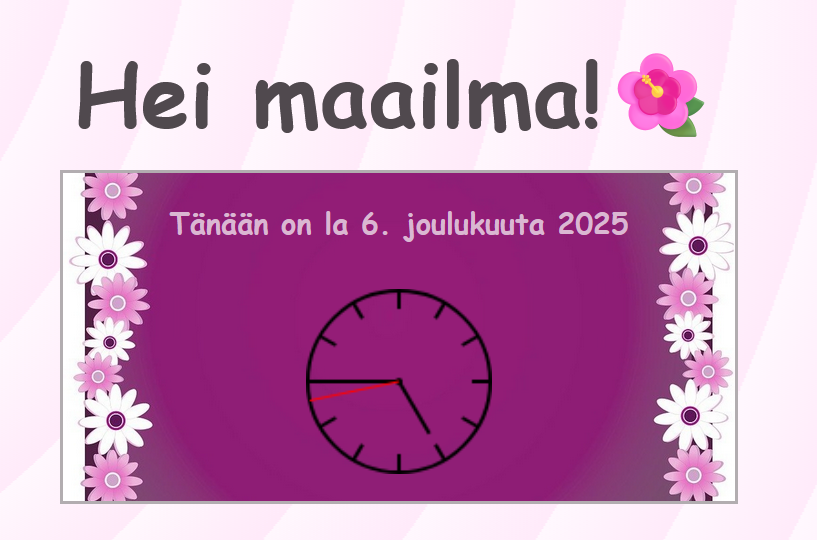
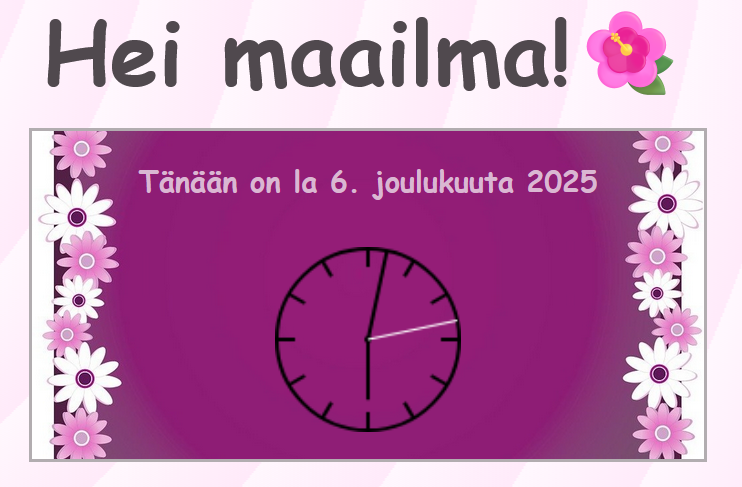
Vaihdettu kellon viisarin väri valkoiseksi  ja kuva

diff --git a/scripts.js b/scripts.js
@@ -50,7 +50,7 @@ function setupAnalogClock(canvas, clockWidth) {
     drawHand(clockWidth / 2, minutes * 6);
 
     var seconds = date.getSeconds();
-    ctx.strokeStyle = "red";
+    ctx.strokeStyle = "white";
     ctx.lineWidth = 1;
     drawHand(clockWidth / 2, seconds * 6);
 
